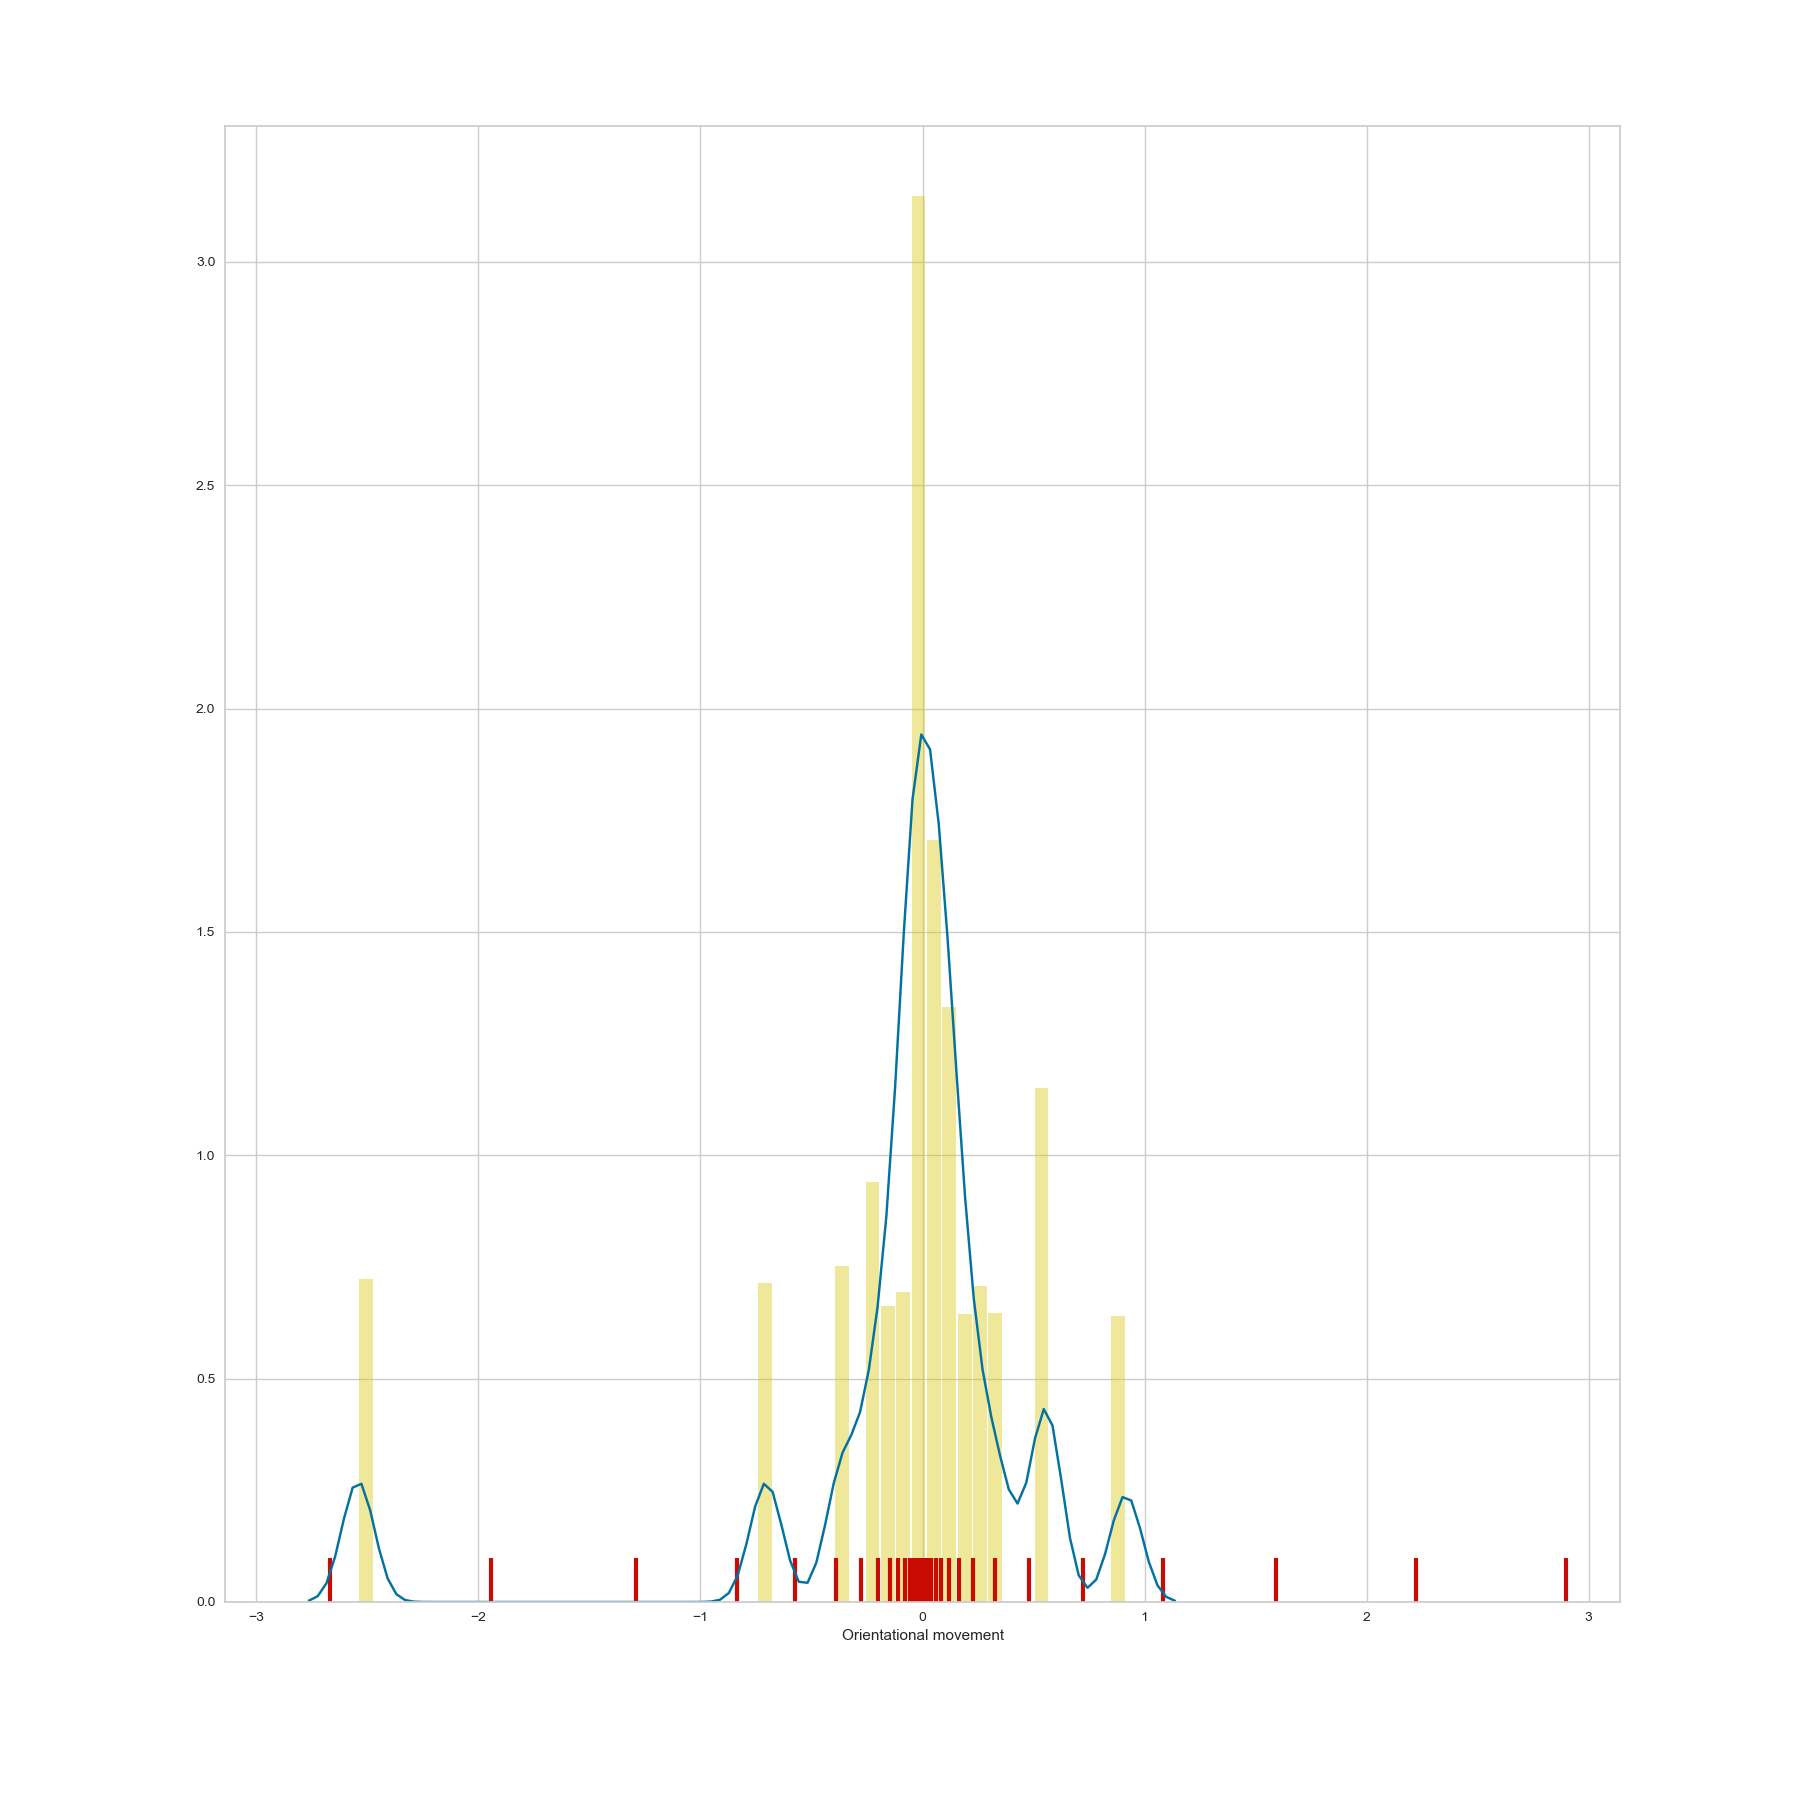
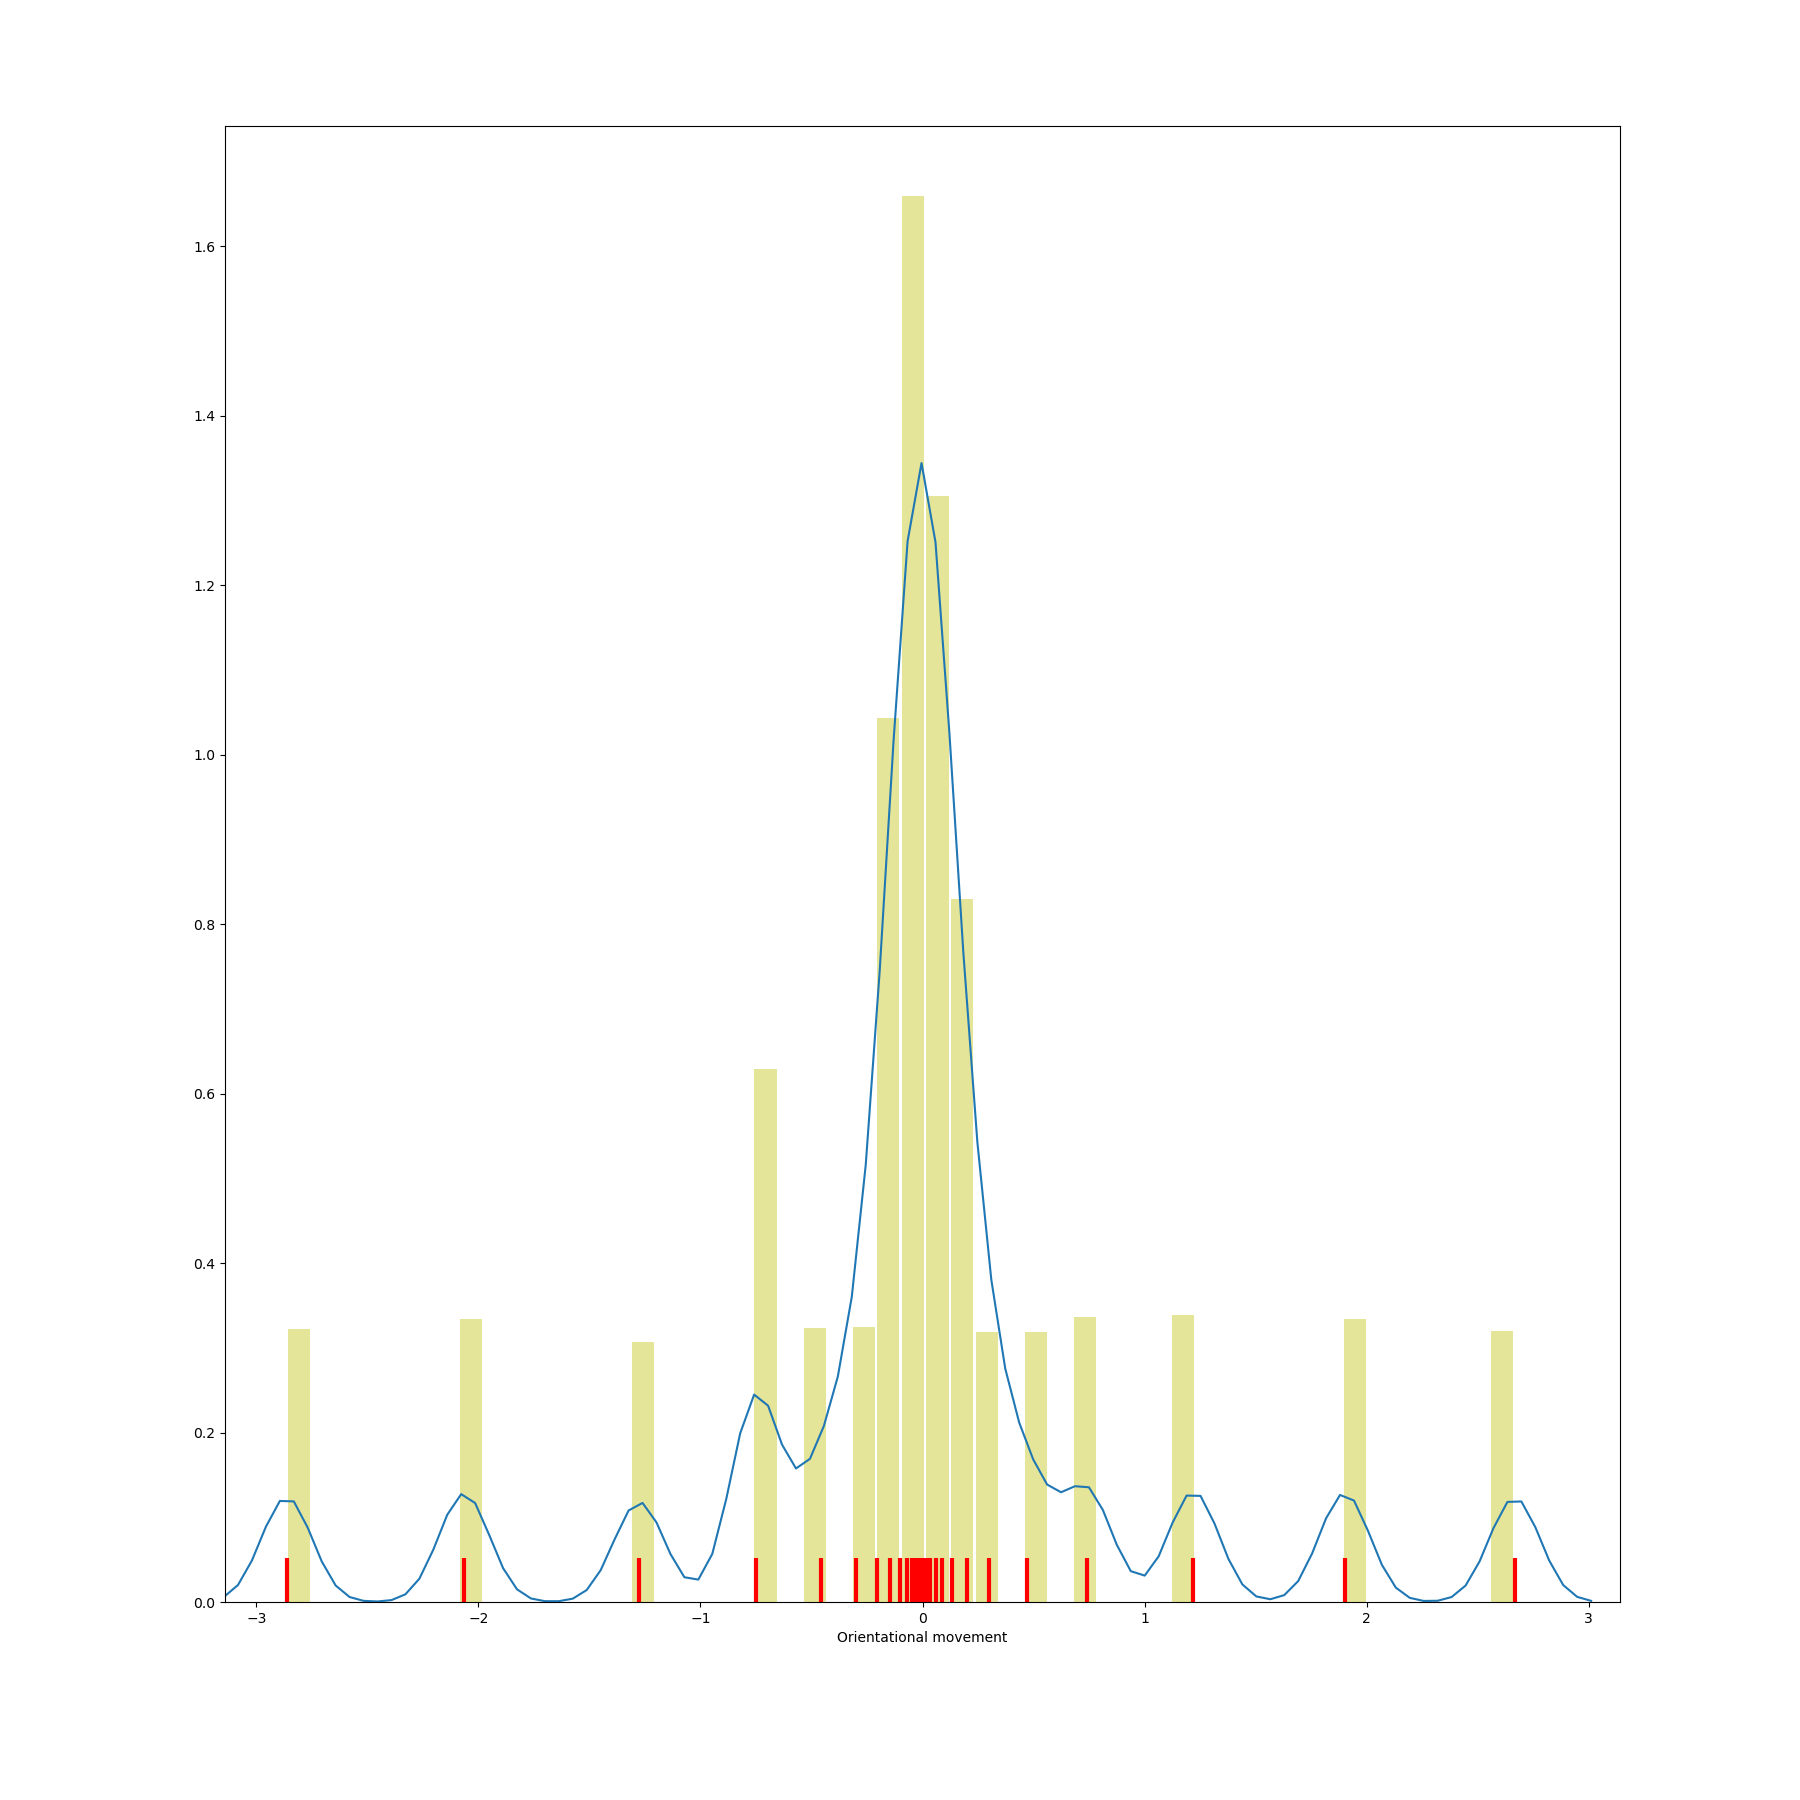
new simulation data

Changed region(s): [[0.3422, 0.0933, 0.7156, 0.9333], [0.1244, 0.7156, 0.28, 0.9022], [0.7467, 0.7156, 0.9022, 0.9022]]

diff --git a/src/evaluation.py b/src/evaluation.py
@@ -544,12 +544,12 @@ def main():
     # get locomotion
     df = pd.read_csv("data/locomotion_simulation.csv", index_col=0, sep = ";")
     loc = df.to_numpy()
-    distances = [22.70151645748765, 11.80820528094036, 21.32714895551549]
-    polarTracks = np.array([[408.4131257097944, 321.88652359668686, 5.412909238431337, 366.9314135974851, 229.4614791656282, 0.406224943954624, 516.1784567524802, 535.9983967334214, 2.52111734298587]])
+    startpolar, distances = readStartposition( "data/startposition_simulation.txt" )
+    polarTracks = np.array([startpolar])
     startpositions = convPolarToCart( polarTracks, distances )[0]
     tracks = locomotion.convLocToCart( loc, startpositions )
     # create_plots( tracks, path="figures/simulation" )
-    visualization.addTracksOnTank( "C:/Users/Gabriel/Videos/sim_tracks.avi", tracks[0:500], skeleton=[(0,1)], showvid=False )
+    visualization.addTracksOnTank( "C:/Users/Gabriel/Videos/sim_tracks.avi", tracks, skeleton=[(0,1)], showvid=False )
 
 if __name__ == "__main__":
     main()
